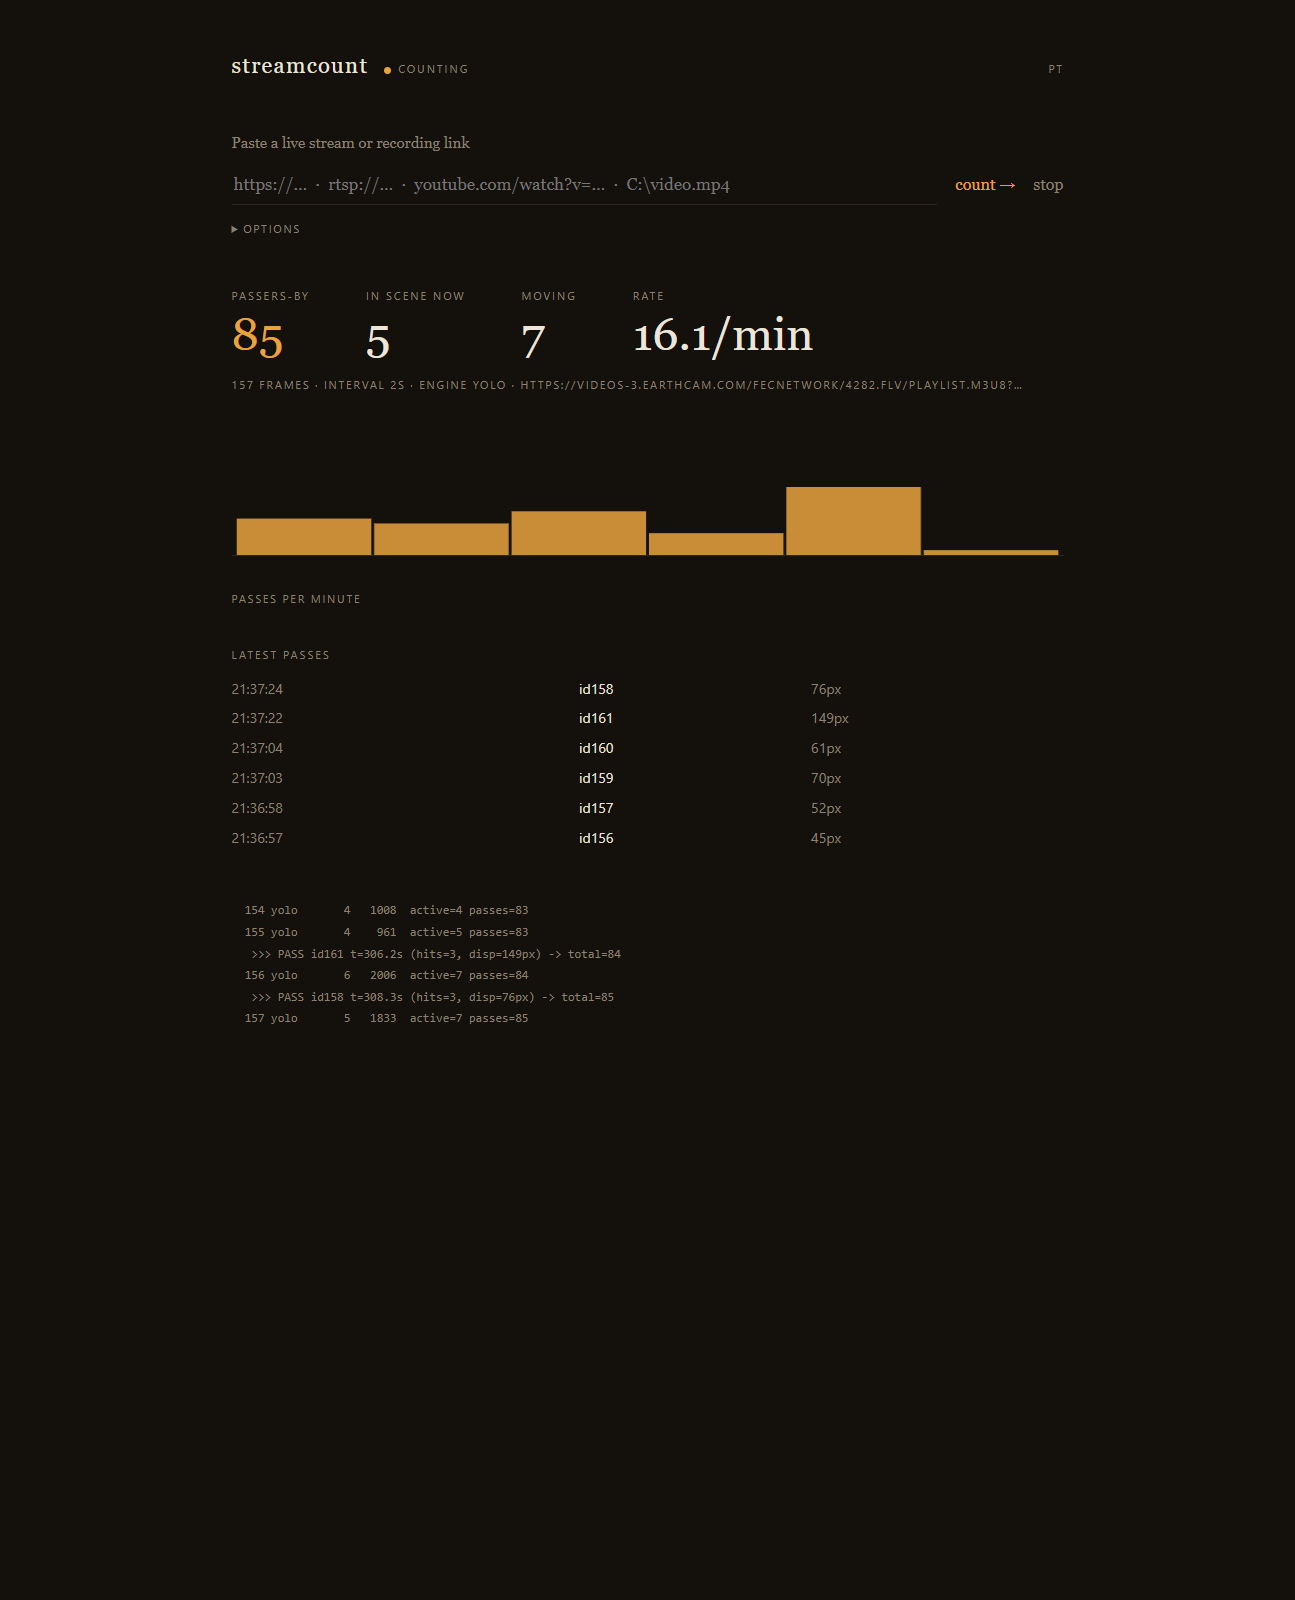
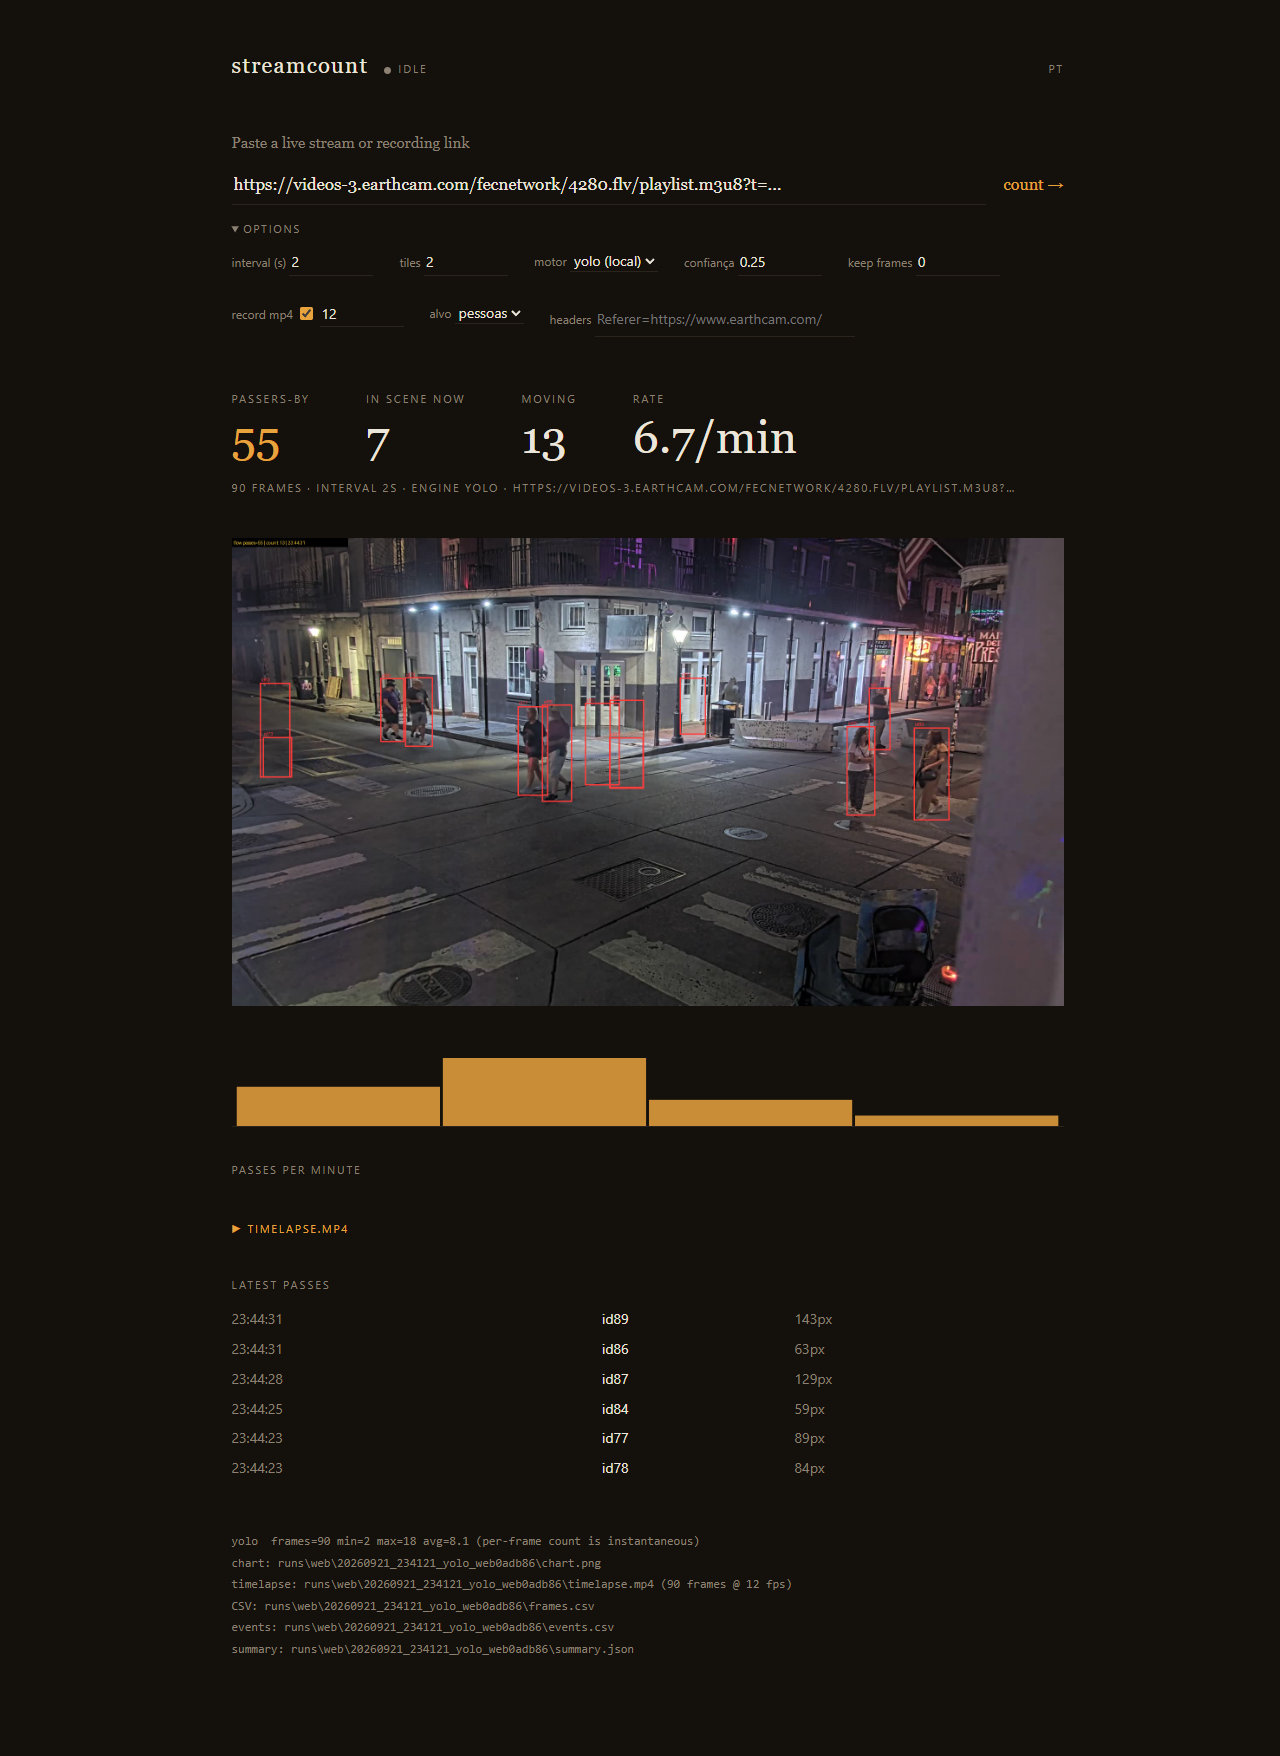
assets: dashboard shot + demo gif rebuilt from a real 3-minute live run (55 passers-by)
- assets/dashboard.png: fresh full-page capture of the live dashboard — 55 passers-by,
  per-minute bars, latest passes with track ids, the options panel showing keep-frames
  and the record-mp4 toggle, and the ▶ timelapse.mp4 link of the finished run
- assets/demo.gif: 28 frames sampled from that run's annotated frames (real Bourbon
  Street cam, 90 frames @2 s), rebuilt with the new scripts/render_demo_gif.py
- dropped three screenshots nothing referenced (flow-ids, night-scene, tiles)
- README alt texts updated to match; CHANGELOG noted

diff --git a/scripts/render_demo_gif.py b/scripts/render_demo_gif.py
@@ -1,0 +1,70 @@
+#!/usr/bin/env python3
+"""Render the README demo GIF from a run's annotated frames.
+
+Usage:
+    python scripts/render_demo_gif.py <run_dir> <out.gif> [--frames 36] [--width 720]
+
+Samples the run's annotated frames evenly (newest frames kept), scales them down
+and writes an optimised looping GIF — the asset shown in the README. All frames
+come from a real run; nothing is simulated. Needs Pillow only.
+"""
+
+from __future__ import annotations
+
+import argparse
+from pathlib import Path
+
+from PIL import Image
+
+
+def pick_frames(run_dir: Path, want: int) -> list[Path]:
+    frames_dir = run_dir / "frames"
+    frames = sorted(
+        (p for p in frames_dir.iterdir() if p.suffix == ".jpg"),
+        key=lambda p: int("".join(ch for ch in p.name.split("_")[0] if ch.isdigit()) or 0),
+    )
+    if not frames:
+        raise SystemExit(f"no annotated frames in {frames_dir}")
+    if len(frames) <= want:
+        return frames
+    step = len(frames) / want
+    return [frames[min(int(i * step), len(frames) - 1)] for i in range(want)]
+
+
+def main() -> None:
+    parser = argparse.ArgumentParser(description=__doc__)
+    parser.add_argument("run_dir", type=Path)
+    parser.add_argument("out", type=Path)
+    parser.add_argument("--frames", type=int, default=36, help="frames in the GIF (default 36)")
+    parser.add_argument("--width", type=int, default=720, help="output width in px (default 720)")
+    parser.add_argument("--ms", type=int, default=130, help="per-frame duration in ms (default 130)")
+    parser.add_argument("--colors", type=int, default=128,
+                        help="palette size per frame (default 128; 0 keeps truecolour quantisation)")
+    args = parser.parse_args()
+
+    picked = pick_frames(args.run_dir, args.frames)
+    images: list[Image.Image] = []
+    for path in picked:
+        image = Image.open(path).convert("RGB")
+        height = round(image.height * args.width / image.width)
+        height -= height % 2  # keep even dimensions for video encoders and viewers
+        frame = image.resize((args.width, height), Image.LANCZOS)
+        if args.colors:
+            frame = frame.quantize(colors=args.colors, method=Image.MEDIANCUT)
+        images.append(frame)
+
+    args.out.parent.mkdir(parents=True, exist_ok=True)
+    images[0].save(
+        args.out,
+        save_all=True,
+        append_images=images[1:],
+        duration=args.ms,
+        loop=0,
+        optimize=True,
+    )
+    size_mb = args.out.stat().st_size / 1_048_576
+    print(f"{args.out}: {len(images)} frames @ {args.ms}ms, {args.width}px wide, {size_mb:.1f} MB")
+
+
+if __name__ == "__main__":
+    main()

diff --git a/README.md b/README.md
@@ -12,7 +12,7 @@ and unique passers-by, with a local ONNX detector (free, offline) or a vision LL
 
 <img src="https://github.com/Eddienews/streamcount/raw/main/assets/screenshot-flow-live.jpg" width="640" alt="Live flow counting on a night street camera — each tracked person gets an id and the running total of passers-by is shown">
 
-<img src="https://github.com/Eddienews/streamcount/raw/main/assets/demo.gif" width="640" alt="Animated demo: tracked ids on a live night street, running pass total in the corner">
+<img src="https://github.com/Eddienews/streamcount/raw/main/assets/demo.gif" width="640" alt="Animated demo from a real live run: tracked ids on a night street camera, running pass total in the corner (28 frames sampled from a 3-minute run)">
 
 <img src="https://github.com/Eddienews/streamcount/raw/main/assets/hour-live-run.gif" width="640" alt="One-hour live run replayed minute by minute: passers-by per minute (bars) and cumulative total (line)">
 
@@ -105,7 +105,7 @@ and the running log):
 streamcount serve --port 8766 --open      # opens http://127.0.0.1:8766 in your browser
 ```
 
-<img src="https://github.com/Eddienews/streamcount/raw/main/assets/dashboard.png" width="720" alt="streamcount live dashboard: passers-by 81, per-minute bars, latest passes with track ids">
+<img src="https://github.com/Eddienews/streamcount/raw/main/assets/dashboard.png" width="720" alt="streamcount live dashboard: 55 passers-by, per-minute bars, latest passes with track ids, the options panel (keep-frames, record mp4) and the timelapse.mp4 link">
 
 It is a thin supervisor over `streamcount run` — same engines, same options, one page. The run
 is a **live session**: it stops when you press *stop*, not after the CLI default of 10 frames.

diff --git a/CHANGELOG.md b/CHANGELOG.md
@@ -23,6 +23,13 @@ Format: [Keep a Changelog](https://keepachangelog.com/en/1.1.0/) · [SemVer](htt
   `f10000` *before* `f9999` — past 9,999 frames (~5.5 h at 2 s) the page could serve a stale
   frame. The numeric frame index now decides.
 
+### Changed
+- README assets refreshed from a fresh 3-minute live run (Bourbon Street, 90 frames, 55
+  passers-by): `assets/dashboard.png` now shows the *record mp4* option and the
+  `▶ timelapse.mp4` link; `assets/demo.gif` was rebuilt from the same run's frames with the new
+  `scripts/render_demo_gif.py` (also uses the new `--keep-frames 0`/`--timelapse` flags only as
+  data sources). Three unreferenced screenshots dropped from `assets/`.
+
 ## [0.1.0] - 2026-09-21
 
 First public version.
